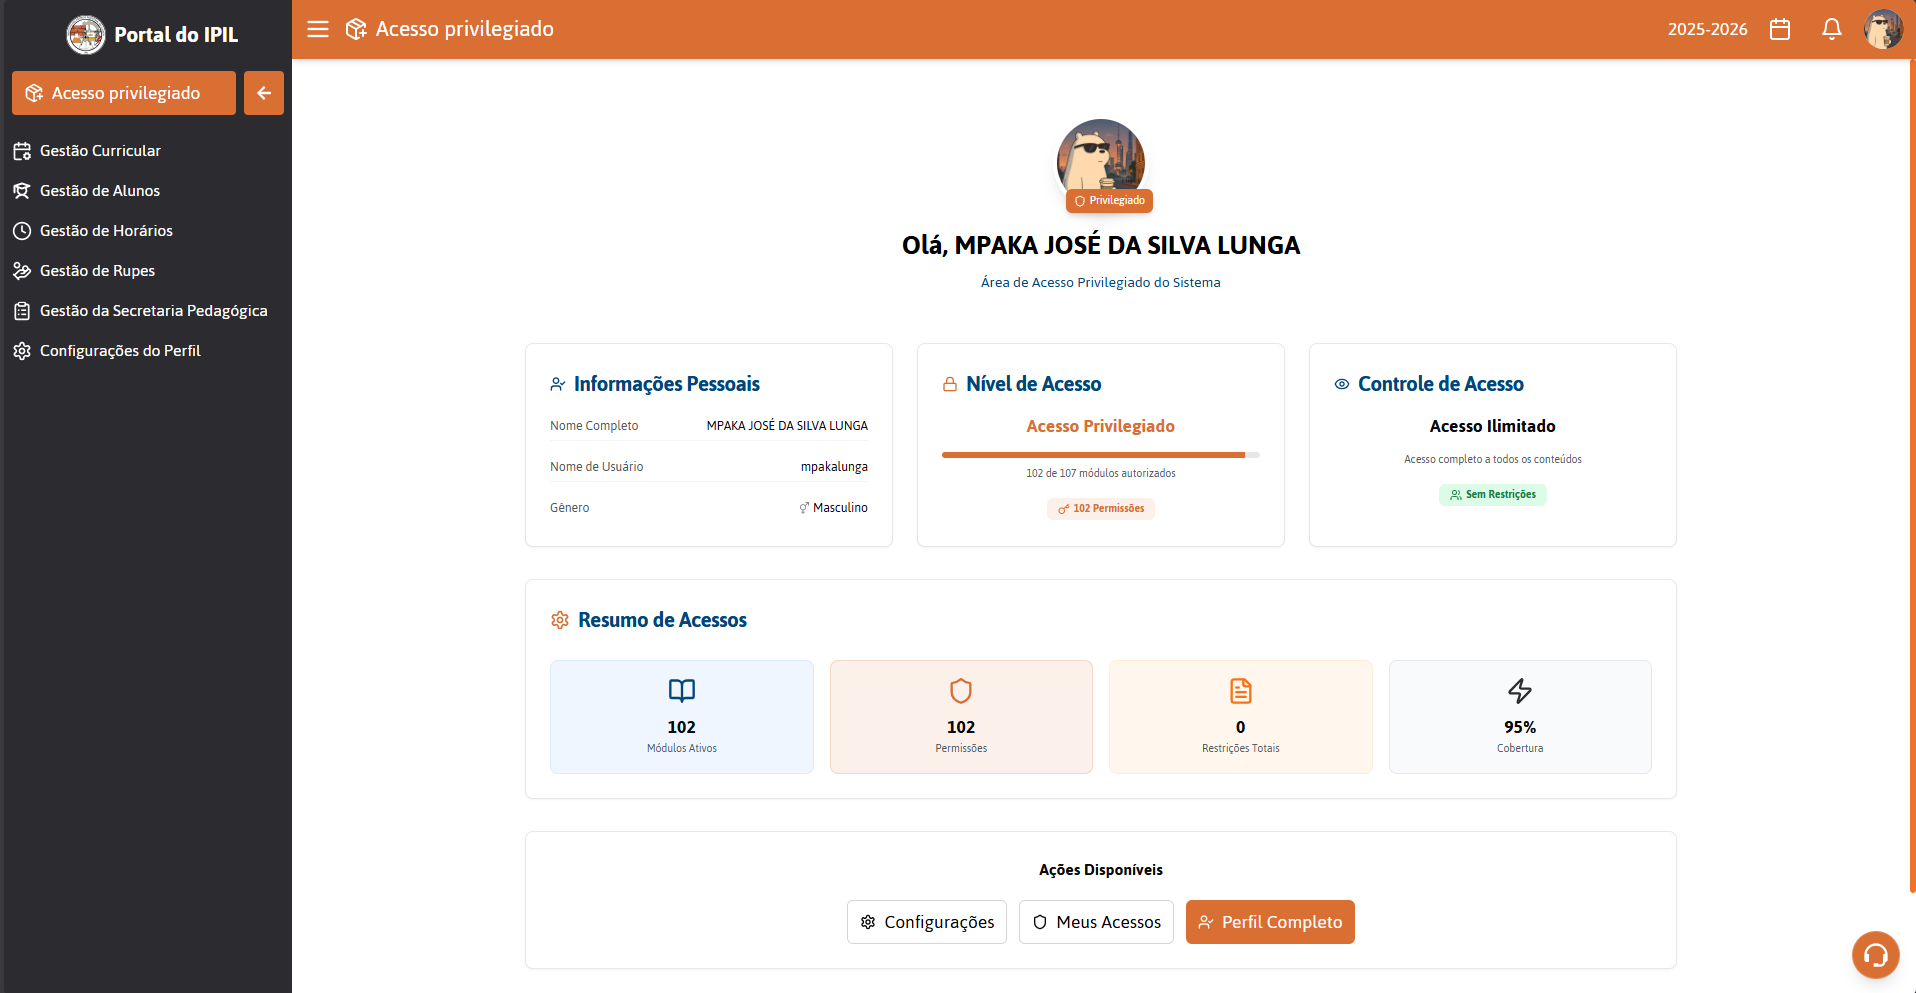
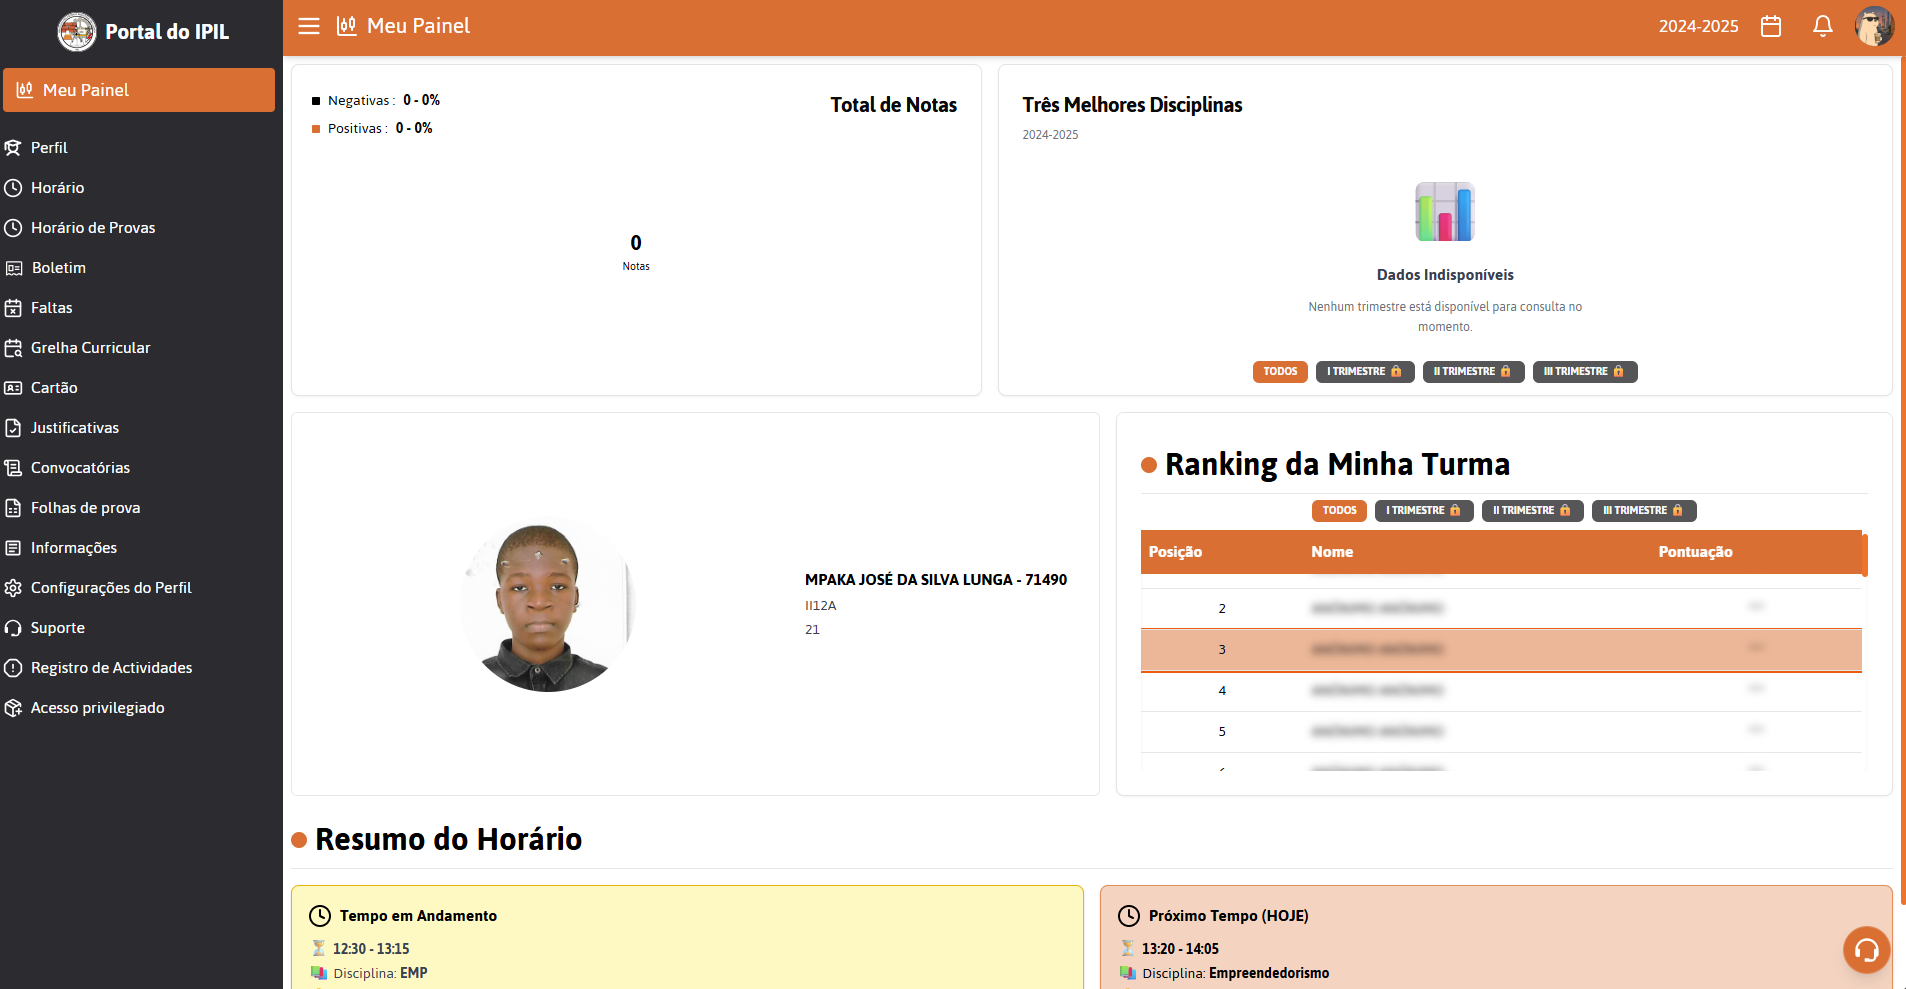
feat:navigation done

diff --git a/src/components/Experience/Experience.tsx b/src/components/Experience/Experience.tsx
@@ -21,58 +21,57 @@ export function Experience() {
         </div>
 
         <Reveal delay={80} className="w-full">
-          <article className="w-full rounded-2xl border border-[var(--border)] bg-[var(--surface)] p-6 sm:p-8">
-            <div className="flex flex-wrap items-start justify-between gap-3">
-              <div className="flex items-center gap-3">
-                <span className="flex h-10 w-10 items-center justify-center rounded-xl border border-[var(--border)] bg-[var(--bg)] text-primary">
-                  <Briefcase className="h-5 w-5" strokeWidth={1.75} />
-                </span>
-                <div>
-                  <h3 className="text-lg font-bold text-[var(--text)]">
-                    {t("experience.sosoft.company")}
-                  </h3>
-                  <p className="text-sm font-medium text-primary">
-                    {t("experience.sosoft.role")}
-                  </p>
-                </div>
-              </div>
-              <span className="rounded-full border border-[var(--border)] px-3 py-1 text-xs font-medium text-[var(--text-muted)]">
-                {t("experience.current")}
-              </span>
-            </div>
-
-            <p className="mt-5 text-sm leading-relaxed text-[var(--text-muted)] sm:text-base">
-              {t("experience.sosoft.description")}
-            </p>
-
-            <div className="mt-6 rounded-xl border border-[var(--border)] bg-[var(--bg)] p-5">
-              <div className="flex flex-wrap items-center justify-between gap-2">
-                <span className="flex items-center gap-2 text-sm font-semibold text-[var(--text)]">
-                  <FolderGit2 className="h-4 w-4 text-primary" />
-                  {t("experience.sosoft.highlightTitle")}
-                </span>
-                <span className="text-xs font-medium uppercase tracking-wide text-primary">
-                  {t("experience.sosoft.highlightLabel")}
-                </span>
-              </div>
-              <p className="mt-2 text-sm leading-relaxed text-[var(--text-muted)]">
-                {t("experience.sosoft.highlightDescription")}
-              </p>
-            </div>
-
-            <div className="mt-6 flex flex-wrap gap-2">
-              {["React", "TypeScript", "Node.js", "Fastify", "REST APIs", "Prisma", "MySQL", "PostgreSQL"].map(
-                (tech) => (
-                  <span
-                    key={tech}
-                    className="rounded-full border border-[var(--border)] px-3 py-1 text-xs font-medium text-[var(--text-muted)]"
-                  >
-                    {tech}
+          <a href="https://sosoft.ao/" target="blank">
+            <article className="w-full rounded-2xl border border-[var(--border)] bg-[var(--surface)] p-6 sm:p-8">
+              <div className="flex flex-wrap items-start justify-between gap-3">
+                <div className="flex items-center gap-3">
+                  <span className="flex h-10 w-10 items-center justify-center rounded-xl border border-[var(--border)] bg-[var(--bg)] text-primary">
+                    <Briefcase className="h-5 w-5" strokeWidth={1.75} />
                   </span>
-                )
-              )}
-            </div>
-          </article>
+                  <div>
+                    <h3 className="text-lg font-bold text-[var(--text)]">
+                      {t("experience.sosoft.company")}
+                    </h3>
+                    <p className="text-sm font-medium text-primary">
+                      {t("experience.sosoft.role")}
+                    </p>
+                  </div>
+                </div>
+                <span className="rounded-full border border-[var(--border)] px-3 py-1 text-xs font-medium text-[var(--text-muted)]">
+                  {t("experience.current")}
+                </span>
+              </div>
+              <p className="mt-5 text-sm leading-relaxed text-[var(--text-muted)] sm:text-base">
+                {t("experience.sosoft.description")}
+              </p>
+              <div className="mt-6 rounded-xl border border-[var(--border)] bg-[var(--bg)] p-5">
+                <div className="flex flex-wrap items-center justify-between gap-2">
+                  <span className="flex items-center gap-2 text-sm font-semibold text-[var(--text)]">
+                    <FolderGit2 className="h-4 w-4 text-primary" />
+                    {t("experience.sosoft.highlightTitle")}
+                  </span>
+                  <span className="text-xs font-medium uppercase tracking-wide text-primary">
+                    {t("experience.sosoft.highlightLabel")}
+                  </span>
+                </div>
+                <p className="mt-2 text-sm leading-relaxed text-[var(--text-muted)]">
+                  {t("experience.sosoft.highlightDescription")}
+                </p>
+              </div>
+              <div className="mt-6 flex flex-wrap gap-2">
+                {["React", "TypeScript", "Node.js", "Fastify", "REST APIs", "Prisma", "MySQL", "PostgreSQL"].map(
+                  (tech) => (
+                    <span
+                      key={tech}
+                      className="rounded-full border border-[var(--border)] px-3 py-1 text-xs font-medium text-[var(--text-muted)]"
+                    >
+                      {tech}
+                    </span>
+                  )
+                )}
+              </div>
+            </article>
+          </a>
         </Reveal>
       </div>
     </section>

diff --git a/src/components/Projects/Projects.tsx b/src/components/Projects/Projects.tsx
@@ -4,12 +4,9 @@ import { useTranslation } from "react-i18next";
 import { SectionHeading } from "../ui/SectionHeading";
 import { Reveal } from "../ui/Reveal";
 import { projects } from "../../data/projects";
-import { useState } from "react";
-import Img1 from "../../assets/portalImg.png"
 
 export function Projects() {
   const { t } = useTranslation();
-  const [hasImg, setHasImg] = useState<boolean>(false)
 
   return (
     <section id="projects" className="mx-auto max-w-6xl px-5 py-24 sm:px-8">
@@ -21,22 +18,22 @@ export function Projects() {
         {projects.map((project, index) => (
           <Reveal key={project.id} delay={index * 80}>
             <article className="group flex h-full flex-col overflow-hidden rounded-2xl border border-[var(--border)] bg-[var(--surface)] transition-all hover:-translate-y-1 hover:border-[var(--border-strong)]">
-              {
-                project.img 
-                
-                ?
-
-                <img src={Img1} alt="" />
-
-                :
-
+              {project.img ? (
+                <div className="aspect-[16/10] w-full overflow-hidden border-b border-[var(--border)]">
+                  <img
+                    src={project.img}
+                    alt={t(`projects.${project.translationKey}.name`)}
+                    className="h-full w-full object-cover transition-transform duration-500 ease-out group-hover:scale-105"
+                  />
+                </div>
+              ) : (
                 <div className="flex aspect-[16/10] items-center justify-center border-b border-[var(--border)] bg-[var(--bg)]">
-                <LayoutGrid
-                  className="h-9 w-9 text-primary/50 transition-colors group-hover:text-primary"
-                  strokeWidth={1.25}
-                />
-              </div>
-              }
+                  <LayoutGrid
+                    className="h-9 w-9 text-primary/50 transition-colors group-hover:text-primary"
+                    strokeWidth={1.25}
+                  />
+                </div>
+              )}
 
               <div className="flex flex-1 flex-col p-6">
                 {project.featured && (

diff --git a/src/components/Contact/Contact.tsx b/src/components/Contact/Contact.tsx
@@ -1,5 +1,6 @@
 import { useState, type FormEvent } from "react";
 import { CheckCircle2, Mail, Send, AlertCircle } from "lucide-react";
+import emailjs from "@emailjs/browser";
 import { GithubIcon, LinkedinIcon } from "../ui/BrandIcons";
 import { useTranslation } from "react-i18next";
 import { SectionHeading } from "../ui/SectionHeading";
@@ -47,12 +48,24 @@ export function Contact() {
     if (Object.keys(validation).length > 0) return;
 
     setStatus("sending");
+
     try {
-      // Placeholder submit — wire up to a real endpoint / email service.
-      await new Promise((resolve) => setTimeout(resolve, 900));
+      await emailjs.send(
+        import.meta.env.VITE_EMAILJS_SERVICE_ID,
+        import.meta.env.VITE_EMAILJS_TEMPLATE_ID,
+        {
+          from_name: form.name,
+          from_email: form.email,
+          subject: form.subject,
+          message: form.message,
+        },
+        import.meta.env.VITE_EMAILJS_PUBLIC_KEY
+      );
+
       setStatus("success");
       setForm({ name: "", email: "", subject: "", message: "" });
-    } catch {
+    } catch (error) {
+      console.error("Erro ao enviar mensagem:", error);
       setStatus("error");
     }
   };

diff --git a/src/data/projects.ts b/src/data/projects.ts
@@ -1,10 +1,12 @@
+import Img1 from "../assets/portalImg.png"
+import Img2 from "../assets/servImg.png"
 export interface Project {
   id: string;
   translationKey: string;
   technologies: string[];
   githubUrl?: string;
   liveUrl?: string;
-  img?:boolean;
+  img?:string;
   imgSrc?:string
   featured?: boolean;
 }
@@ -23,18 +25,18 @@ export const projects: Project[] = [
       "PostgreSQL/PostGIS",
       "JWT",
     ],
-    img:true,
+    img:Img2,
     githubUrl: undefined,
-    liveUrl: undefined,
+    liveUrl: "https://servlink-plataforma.netlify.app/",
   },
   {
     id: "portal-ipil",
     translationKey: "portalIpil",
     technologies: ["React", "TypeScript", "Node.js", "Fastify", "Prisma", "PostgreSQL"],
     githubUrl: undefined,
-    liveUrl: undefined,
+    liveUrl: "https://ipil.ao/",
     featured: true,
-    img:false
+    img:Img1
   },
   {
     id: "task-flow",
@@ -42,6 +44,6 @@ export const projects: Project[] = [
     technologies: ["React", "TypeScript", "Node.js", "Express.js", "PostgreSQL"],
     githubUrl: undefined,
     liveUrl: undefined,
-    img:false
+    img:""
   },
 ];

diff --git a/src/config/site.ts b/src/config/site.ts
@@ -3,7 +3,7 @@
  * Replace these placeholders with Mpaka José's actual profiles before deploying.
  */
 export const SITE = {
-  githubUrl: "https://github.com/",
-  linkedinUrl: "https://linkedin.com/in/",
-  email: "hello@example.com",
+  githubUrl: "https://github.com/67jo",
+  linkedinUrl: "https://www.linkedin.com/in/mpaka-jos%C3%A9-13b275287/",
+  email: `jompaka68@gmail.com`,
 };
